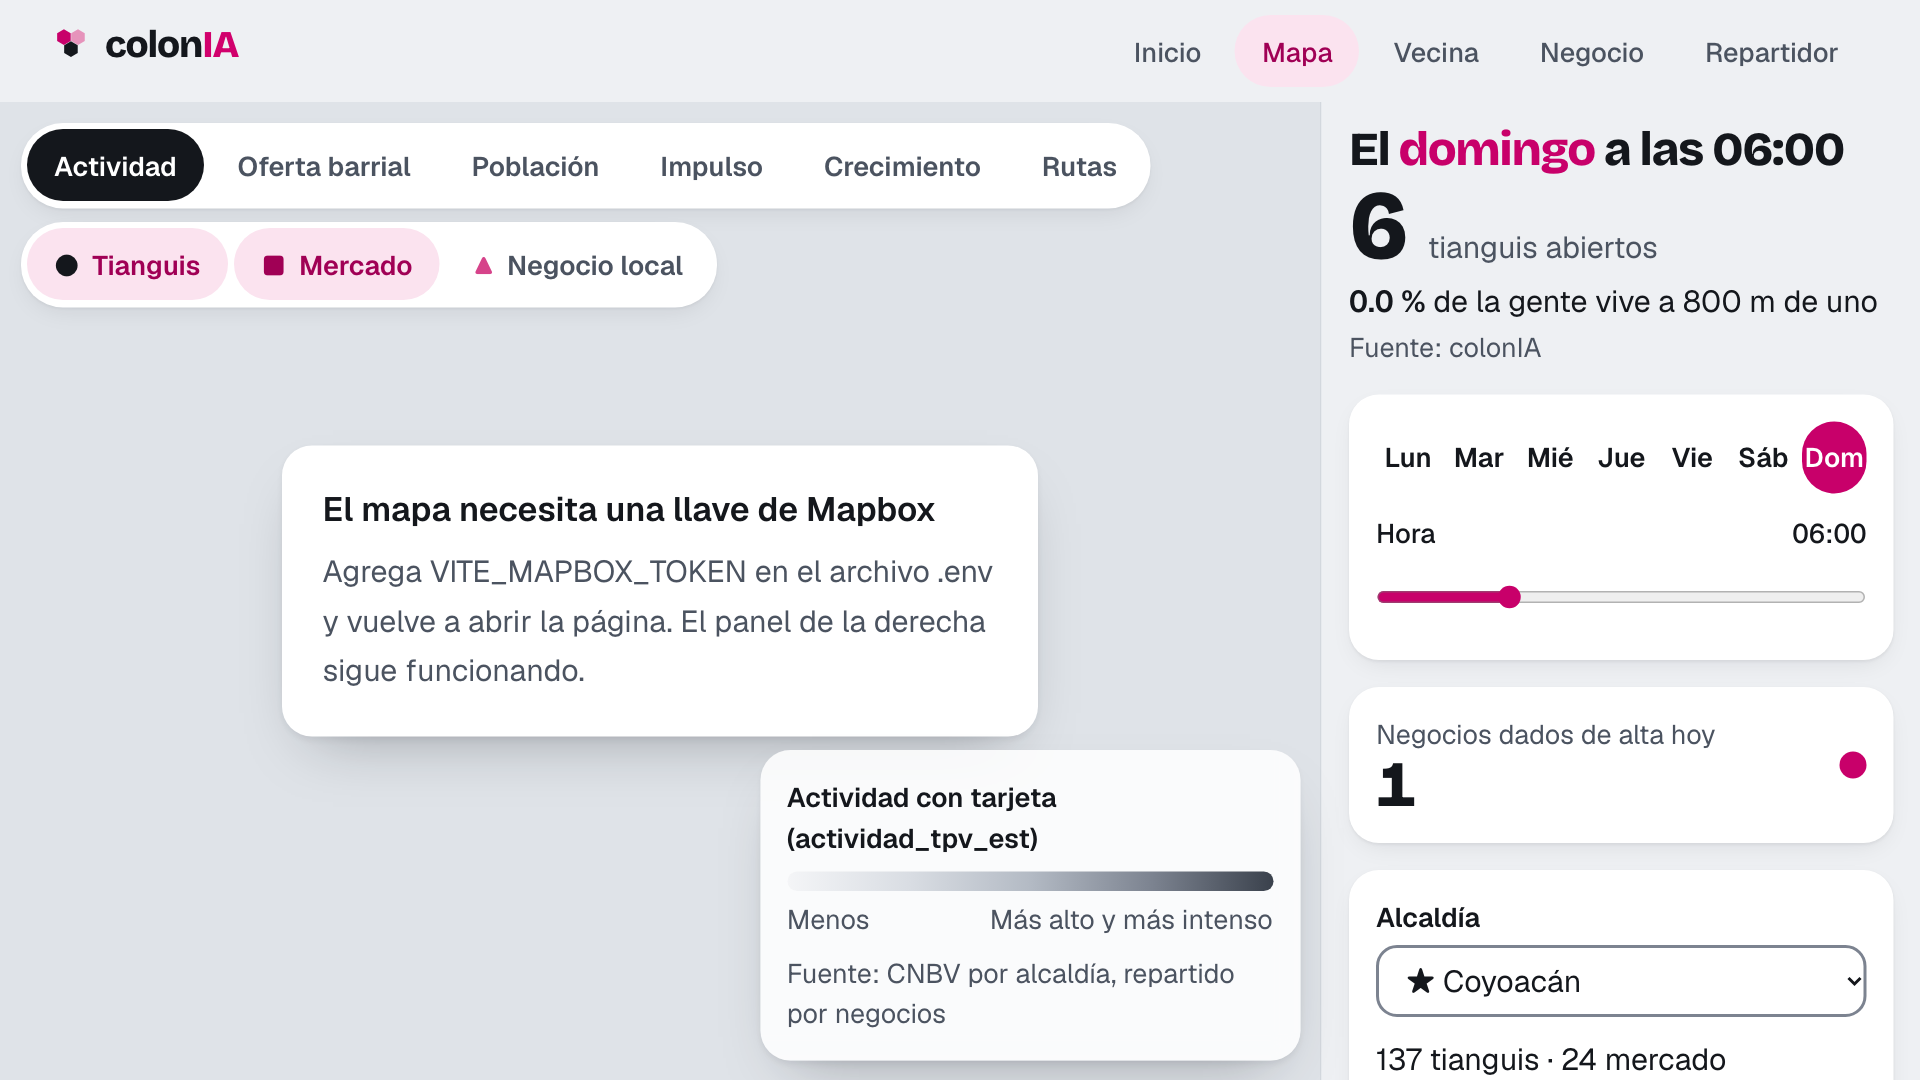
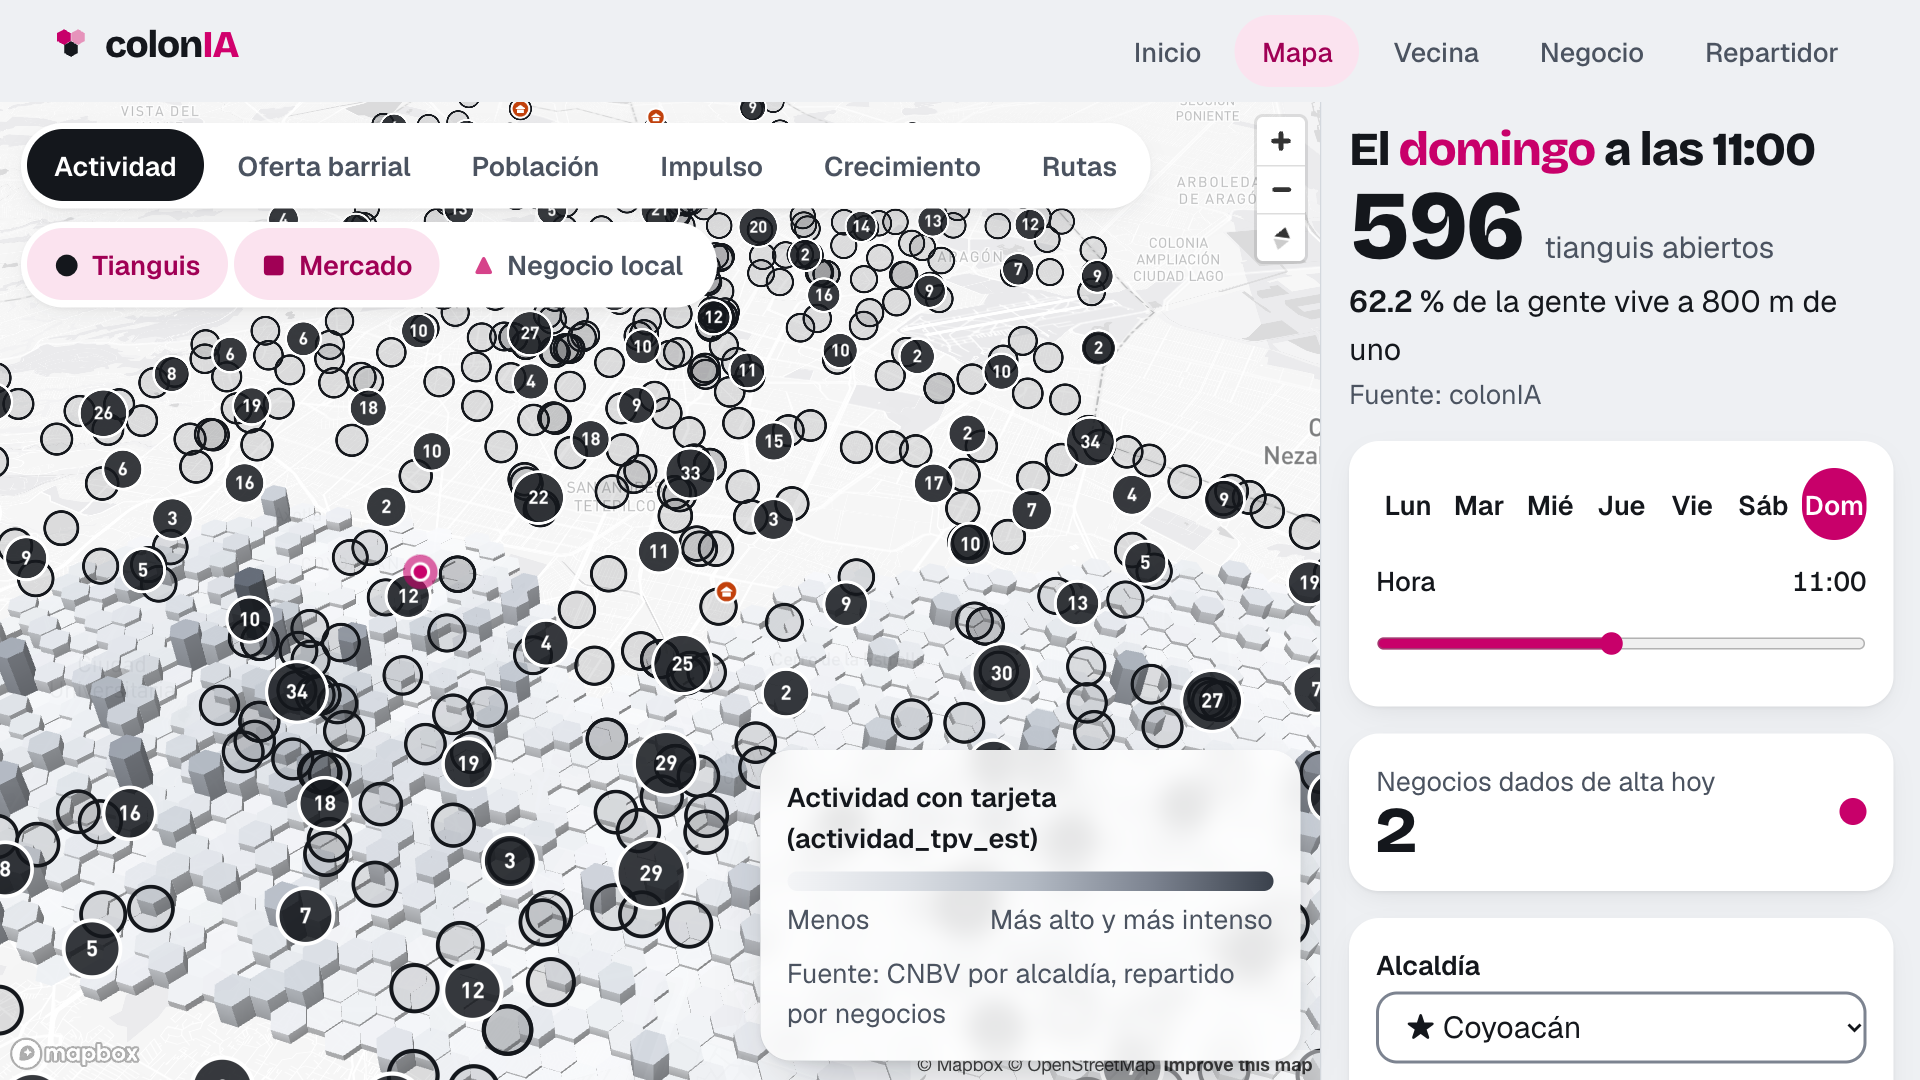
CO-038: capturas con el mapa real de Mapbox, ruta de la vecina visible y pie del mapa al día

diff --git a/README.md b/README.md
@@ -54,9 +54,9 @@ Los tianguis, mercados y tienditas sostienen el abasto de las colonias, pero cas
 
 ## Qué hace
 
-<img src="docs/media/mapa.png" alt="Mapa de colonIA con panel de día y hora; sin llave de Mapbox el mapa base no se dibuja y el panel sigue funcionando" width="640">
+<img src="docs/media/mapa.png" alt="Mapa 3D de colonIA: hexágonos de actividad, tianguis abiertos y panel de día y hora" width="640">
 
-*Captura sin `VITE_MAPBOX_TOKEN`: el mapa base pide la llave y el panel lateral sigue funcionando.*
+*Captura con `DEMO_MODE=1` y llave de Mapbox. Sin llave, el mapa base muestra un aviso y el panel lateral sigue funcionando.*
 
 - **Mapa** (`#/mapa`): tianguis, mercados y negocios locales; capas de actividad, oferta barrial, población, impulso, crecimiento y rutas; filtro por día y hora.
 - **Alta por nota de voz en Telegram:** el negocio manda un audio, se transcribe y se extraen los campos; queda en el mapa (`app/bot/`, `app/routers/altas.py`).
